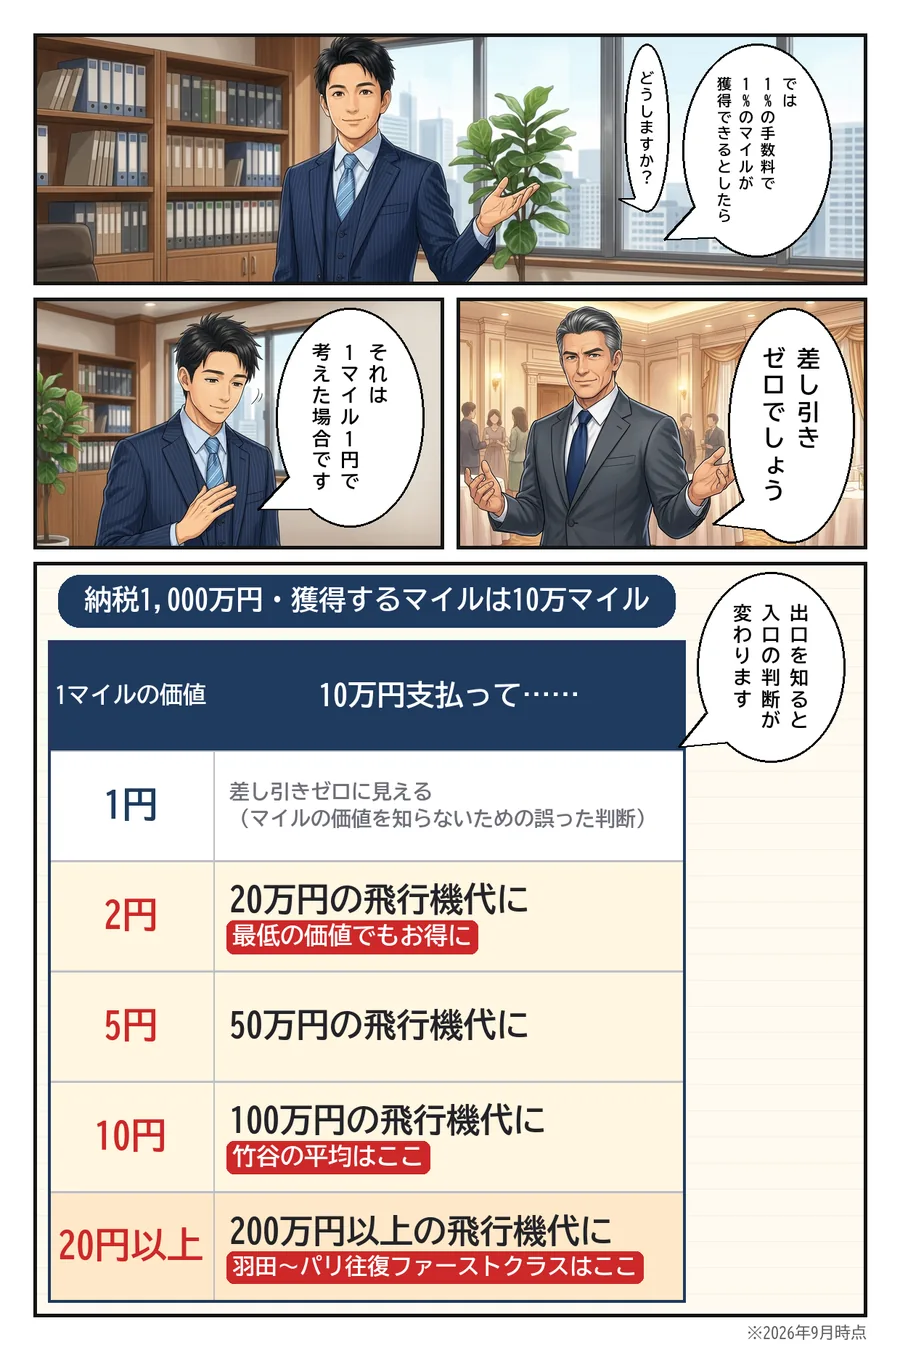
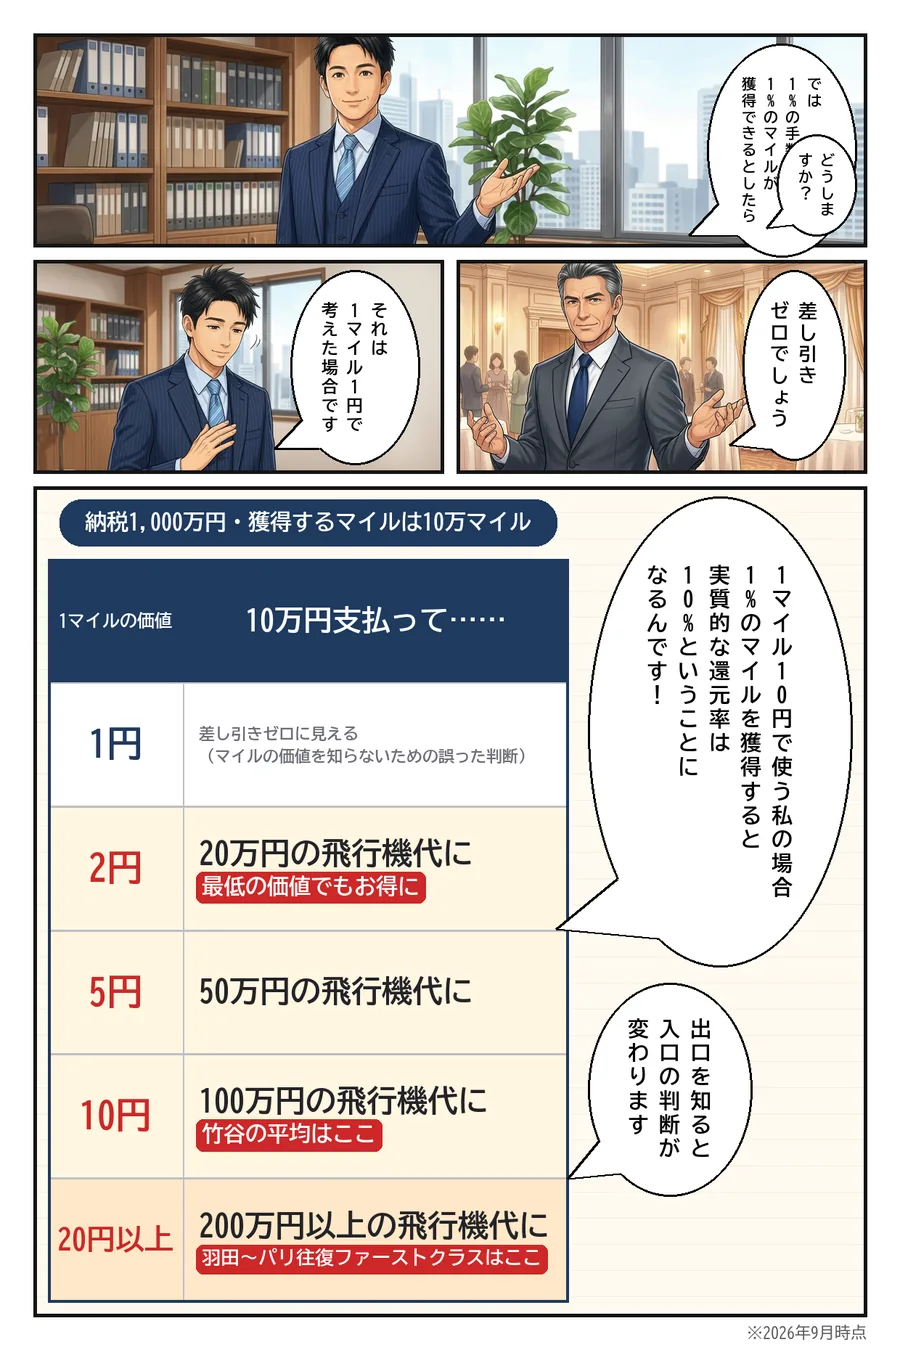
マンガ12・18・27・28ページを修正、LPの年商表記を削除・最後の見出しを変更

diff --git a/lp/mile-tabi-keiei/index.html b/lp/mile-tabi-keiei/index.html
@@ -331,7 +331,7 @@ hr.sep{border:0;border-top:1px dashed var(--line);margin:40px 0;}
 </div>
 
 <div class="wrap sec">
-  <div class="chap"><span class="n">第2章</span><h2>1人目・森田さん（社労士・年商2,000万円）</h2></div>
+  <div class="chap"><span class="n">第2章</span><h2>1人目・森田さん（社会保険労務士）</h2></div>
 </div>
 <div class="manga">
     <img src="images/manga_08.webp" width="900" height="1350" loading="lazy" alt="経営者向けマイル旅マンガ 8ページ">
@@ -354,7 +354,7 @@ hr.sep{border:0;border-top:1px dashed var(--line);margin:40px 0;}
 </div>
 
 <div class="wrap sec">
-  <div class="chap"><span class="n">第3章</span><h2>2人目・高橋さん（エステ2店舗・年商5,000万円）</h2></div>
+  <div class="chap"><span class="n">第3章</span><h2>2人目・高橋さん（エステサロン2店舗）</h2></div>
 </div>
 <div class="manga">
     <img src="images/manga_15.webp" width="900" height="1350" loading="lazy" alt="経営者向けマイル旅マンガ 15ページ">
@@ -367,7 +367,7 @@ hr.sep{border:0;border-top:1px dashed var(--line);margin:40px 0;}
 </div>
 
 <div class="wrap sec">
-  <div class="chap"><span class="n">第4章</span><h2>3人目・藤堂さん（コンサル・年商3億円）</h2></div>
+  <div class="chap"><span class="n">第4章</span><h2>3人目・藤堂さん（コンサルティング会社）</h2></div>
 </div>
 <div class="manga">
     <img src="images/manga_22.webp" width="900" height="1350" loading="lazy" alt="経営者向けマイル旅マンガ 22ページ">
@@ -504,7 +504,7 @@ hr.sep{border:0;border-top:1px dashed var(--line);margin:40px 0;}
   
   <div class="ctabox">
     <span class="free">無料</span>
-    <h3>天秤から、旅を外してみませんか</h3>
+    <h3>旅を後回しにせず、今までよりも<br>彩り豊かな人生を手に入れませんか？</h3>
     <p>まずはマンガと動画講座から。無料です。</p>
     <a class="cta" href="https://w5x3gyli.autosns.app/addfriend/s/RaTEDqnCcv/@793lofvx" target="_blank" rel="noopener"><svg class="ico" viewBox="0 0 24 24" aria-hidden="true"><path d="M12 2C6.5 2 2 5.6 2 10c0 3.9 3.5 7.2 8.2 7.9.3.1.8.2.9.5.1.3.1.7 0 1l-.1.9c0 .3-.2 1 .9.6 1.1-.5 5.9-3.5 8-6C21.3 13.2 22 11.7 22 10c0-4.4-4.5-8-10-8z"/></svg>無料動画講座を視聴する<span class="s">所要30秒</span></a>
   </div>
